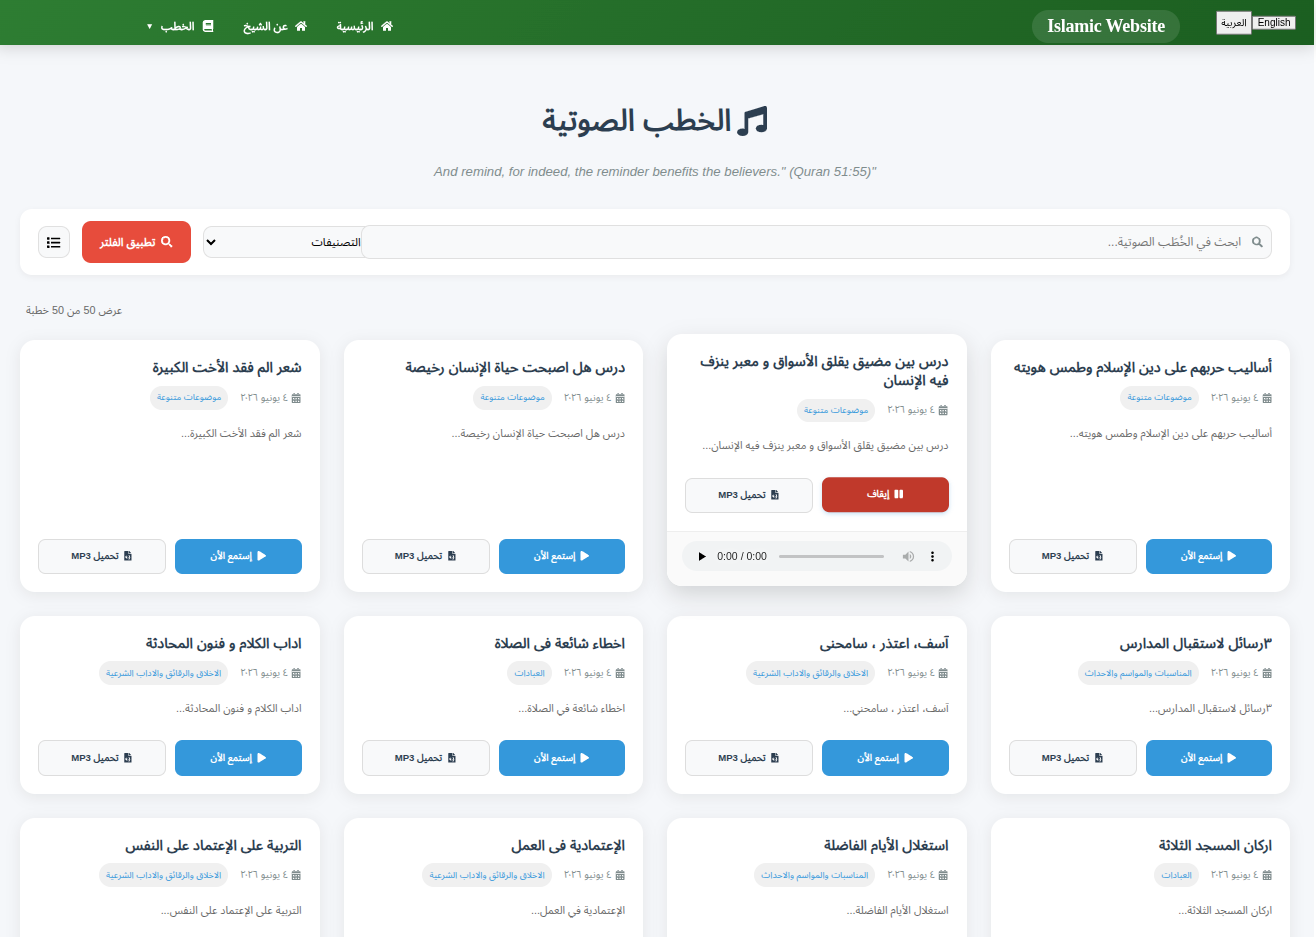
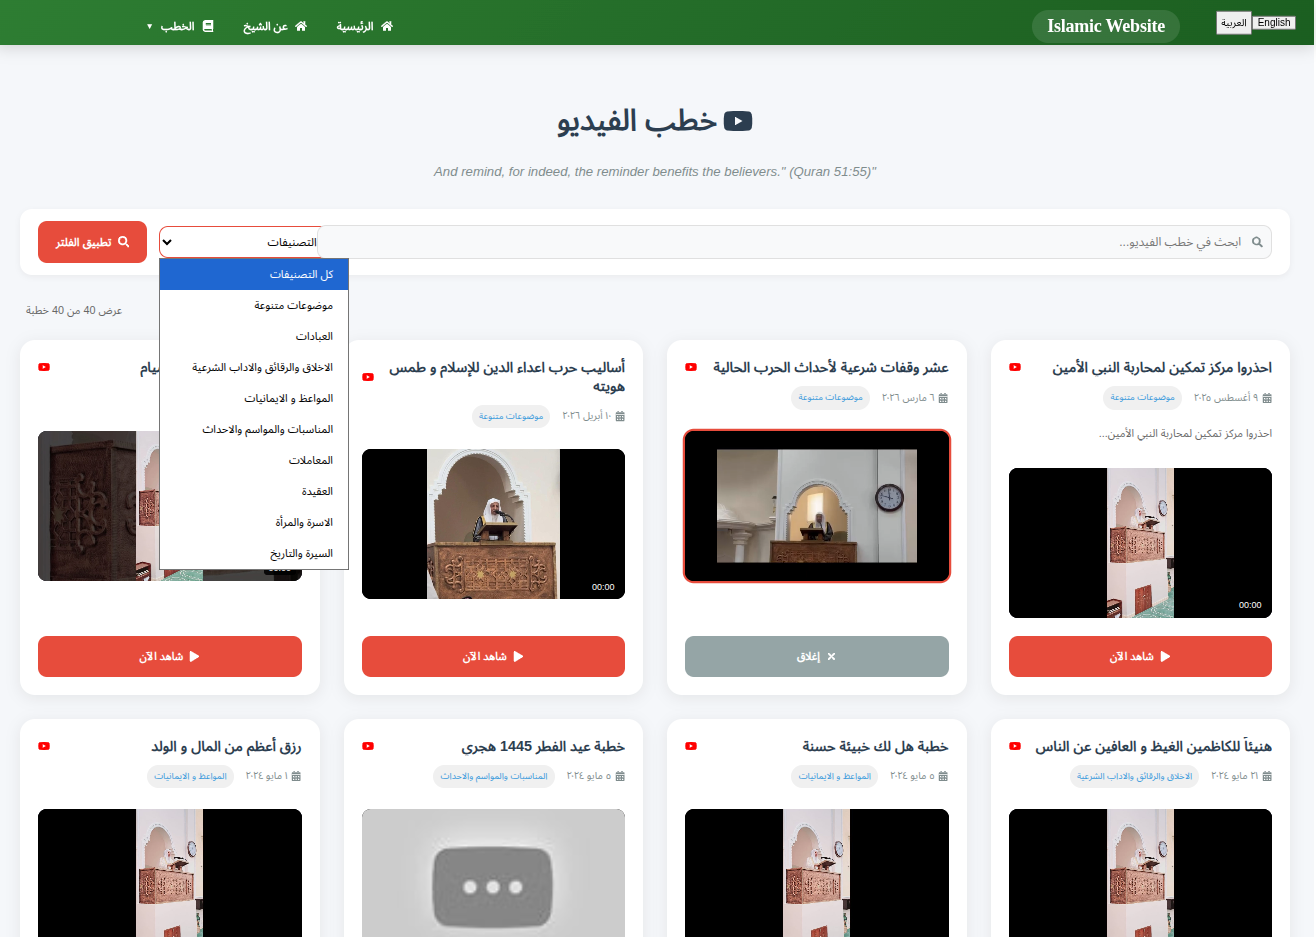
update projects

diff --git a/src/components/projectsPage.jsx b/src/components/projectsPage.jsx
@@ -18,7 +18,7 @@ const ProjectsPage = ({ onViewProject }) => {
         "Automated leave approval workflow",
         "Real-time attendance tracking"
       ],
-      image: "https://via.placeholder.com/400x250/667eea/white?text=ERP+HR+Module",
+      image: "/src/assets/projects/AAMCO_ERP/ERP.png",
       demoUrl: "#",
       githubUrl: "#",
       detailedInfo: {
@@ -26,9 +26,17 @@ const ProjectsPage = ({ onViewProject }) => {
         solution: "Developed a comprehensive ERP HR module that automates all HR processes, provides real-time tracking, and eliminates manual paperwork.",
         results: "70% reduction in HR processing time, 100% accurate attendance tracking, and improved employee satisfaction.",
         screenshots: [
-          "https://via.placeholder.com/800x500/667eea/white?text=ERP+HR+Module+-+Dashboard",
-          "https://via.placeholder.com/800x500/764ba2/white?text=ERP+HR+Module+-+Attendance",
-          "https://via.placeholder.com/800x500/667eea/white?text=ERP+HR+Module+-+Vacation"
+		"/src/assets/projects/AAMCO_ERP/erp_1.png",
+		"/src/assets/projects/AAMCO_ERP/erp_2.png",
+		"/src/assets/projects/AAMCO_ERP/erp_3.png",
+		"/src/assets/projects/AAMCO_ERP/erp_4.png",
+		"/src/assets/projects/AAMCO_ERP/erp_5.png",
+		"/src/assets/projects/AAMCO_ERP/erp_6.png",
+		"/src/assets/projects/AAMCO_ERP/erp_7.png",
+		"/src/assets/projects/AAMCO_ERP/erp_8.png",
+		"/src/assets/projects/AAMCO_ERP/erp_9.png",
+		"/src/assets/projects/AAMCO_ERP/erp_10.png",
+		"/src/assets/projects/AAMCO_ERP/erp_11.png",
         ]
       }
     },
@@ -71,7 +79,7 @@ const ProjectsPage = ({ onViewProject }) => {
         "SEO optimized for Islamic content",
         "Fast loading with Nginx caching"
       ],
-      image: "https://www.abdulkarim-sharafi.com/og-image.jpg",
+      image: "/src/assets/projects/sharafi/sheikh.jpg",
       demoUrl: "https://www.abdulkarim-sharafi.com",
       githubUrl: "#",
       detailedInfo: {
@@ -79,10 +87,11 @@ const ProjectsPage = ({ onViewProject }) => {
         solution: "Built a headless CMS using Strapi for content management, React for the frontend, PostgreSQL for data persistence, and Nginx as a reverse proxy and cache server.",
         results: "Successfully deployed website with 95+ Lighthouse score, fast page loads, and easy content management for non-technical users.",
         screenshots: [
-          "../assets/projects/sharafi/sharafi_1.png",
-          "../assets/projects/sharafi/sharafi_2.png",
-          "../assets/projects/sharafi/sharafi_3.png",
-          "../assets/projects/sharafi/sharafi_4.png"
+          "/src/assets/projects/sharafi/sharafi_1.png",
+          "/src/assets/projects/sharafi/sharafi_2.png",
+          "/src/assets/projects/sharafi/sharafi_3.png",
+          "/src/assets/projects/sharafi/sharafi_4.png",
+          "/src/assets/projects/sharafi/sharafi_5.png"
         ]
       }
     }
